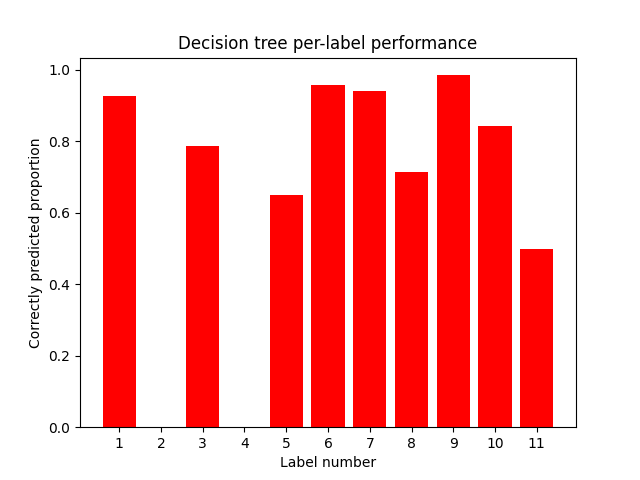
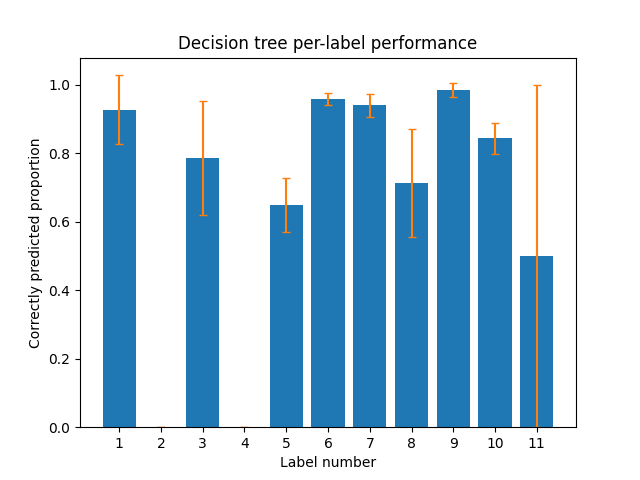
All the label graphs now have error bars plotted.

diff --git a/helper.py b/helper.py
@@ -4,7 +4,7 @@ from sklearn.preprocessing import MultiLabelBinarizer, MinMaxScaler, StandardSca
 import pandas as pd
 from scipy import sparse
 import matplotlib.pyplot as plt
-from statistics import mean
+from statistics import mean, stdev
 
 mlb = MultiLabelBinarizer()
 labels = list(range(1, 12))
@@ -256,16 +256,19 @@ def plot_label_accuracy_cv(model, X: np.ndarray, Y: np.ndarray, model_name: str,
                                          y_predicted=inverse_transform(dictionary['Predictions']), label=i)
         list_of_results.append(results)
 
-    print(list_of_results)
+    #print(list_of_results)
     final_results = {}
+    final_results_stdev = {}
     # Labels are numbered 1–11 not 0–10
     # This is deliberately hard-coded
     for i in range(1, 12):
         final_results[str(i)] = mean([d[str(i-1)] for d in list_of_results])
-    print(final_results)
+        final_results_stdev[str(i)] = stdev([d[str(i - 1)] for d in list_of_results])
+    #print(final_results)
     values = list(final_results.values())
     names = list(final_results.keys())
-    plt.bar(names, values, color='red')
+    plt.bar(names, values, color='tab:blue', yerr=list(final_results_stdev.values()),
+            ecolor='tab:orange', capsize=3.0)
     plt.xlabel("Label number")
     plt.ylabel("Correctly predicted proportion")
     plt.title(model_name + " per-label performance")

diff --git a/svm.py b/svm.py
@@ -27,6 +27,8 @@ print("Y before pruning ", Y.shape)
 # Make sure to do this BEFORE calling prune_unused_labels because the shape changes
 Y_pruned = np.delete(Y, 3, axis=1)
 Y_pruned = prune_unused_labels(Y_pruned)
+x_train, x_test = train_test_split(X, train_size=0.8, random_state=101)
+y_train, y_test = train_test_split(Y_pruned, train_size=0.8, random_state=101)
 print(Y_pruned.shape)
 X = normalise_data(X)
 svm_classifier = BinaryRelevance(
@@ -83,3 +85,5 @@ print("The mean length ratio is ", mean(cross_val_score(svm_classifier, X, Y_pru
                          cv=kfold, n_jobs=-1)))
 # We need to use special workarounds because labels 2 and 4 are missing
 plot_label_accuracy_cv(svm_classifier, X=X, Y=Y_pruned, model_name="SVM", offset=[1, 2])
+svm_classifier.fit(x_train, y_train)
+print("SVM confusion matrix", multilabel_confusion_matrix(y_true=y_test, y_pred=svm_classifier.predict(x_test), labels=[8]))
